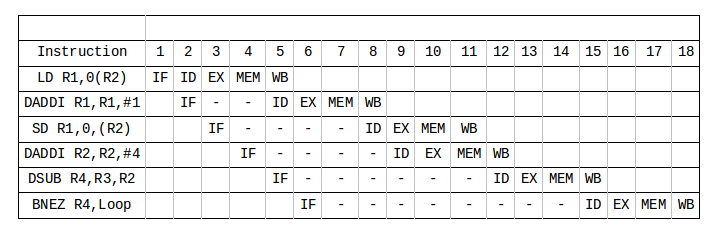
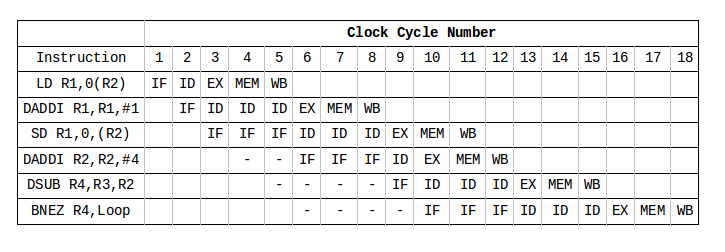
Problem 3c completed

Changed region(s): [[0.0, 0.0588, 0.9764, 0.9412]]

diff --git a/Problem-Set-1.md b/Problem-Set-1.md
@@ -61,10 +61,18 @@ Figure C-6:
 | R2 | DADDI (2) | LD |
 | R2 | DADDI (2) | SD |
 
-## b)
+### b)
 
 > Show the timing of this instruction sequence for the 5-stage RISC pipeline without any forwarding or bypassing hardware but assuming that a register read and a write in the same clock cycle “forwards” through the register file, as shown in Figure C.6. Use a pipeline timing chart like that in Figure C.5. Assume that the branch is handled by flushing the pipeline. If all memory references take 1 cycle, how many cycles does this loop take to execute?
 
-Every decode stage may proceed only when the proper write-back on which it depends has been performed:
+Every decode stage may proceed only when the proper write-back on which it depends has been performed. It important to notice the structural hazard as well. The loop takes 18 cycles to execute:
 
 ![Problem-3b](https://github.com/MarcioJales/Coursera-ELE475/blob/master/problem-3b.png)
+
+### c)
+
+> Show the timing of this instruction sequence for the 5-stage RISC pipeline with full forwarding and bypassing hardware. Use a pipeline timing chart like that shown in Figure C.5. Assume that the branch is handled by predicting it as not taken. If all memory references take 1 cycle, how many cycles does this loop take to execute?
+
+The loop takes 11 cycles to execute:
+
+![Problem-3c](https://github.com/MarcioJales/Coursera-ELE475/blob/master/problem-3c.png)
